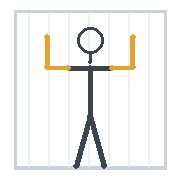
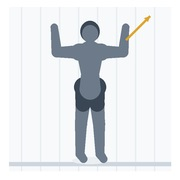
c003-c005: çizgi adam yerine dolgu silüet figür
Çizgi + daire kafa kaba duruyordu. Çizim yöntemi değişti:

- Uzuvlar uçtan uca incelen yuvarlak kapsüllerle doldurulmuş silüet
- 4x süper-örnekleme, sonra LANCZOS ile küçültme — kenarlar pürüzsüz
  (PIL'in kendi çizimi anti-aliasing yapmıyor, önceki hâlin tırtıklı
  görünmesinin sebebi buydu)
- Saç, şort ve yer gölgesi: figür insan gibi okunuyor
- Oranlar yaklaşık 7 baş boyu; duvar kaydırmada figür önce bodurdu,
  kafa küçültülüp bacaklar uzatıldı
- Hareketin yönü artık gövdeyi boyamak yerine ayrı bir pirinç okla
  gösteriliyor

Boyutlar 61-101 KB, dataset ortalaması olan 95 KB'nin altında.

sw: MEDYA sürümü v3. Medya "önce cache" okunduğu için, var olan bir
görseli değiştirince bu sürüm artmazsa kullanıcıda eski görsel kalıyor.
Kuralı dosyaya not olarak yazdım.

Changed region(s): [[0.0278, 0.0556, 0.9722, 0.9444]]

diff --git a/sw.js b/sw.js
@@ -9,7 +9,10 @@
    kapaliyken (ya da internet yokken) onceAg cache'e duser ve kullanici
    eski surumu gorur — guncelleme yapilmamis gibi. */
 const CORE  = 'salon-defteri-v5';   // v5: eliptik isinma, c003-c005 cizimleri
-const MEDYA = 'salon-defteri-medya-v2';   // c001/c002 gorselleri degisti
+/* Medya "once cache" okunuyor: bir kez indirilen gorsel bir daha aga
+   sorulmaz. Var olan bir gorseli DEGISTIRDIGINDE bu surumu artir, yoksa
+   kullanicida eski gorsel kalir. (Yeni id eklemek icin gerekmez.) */
+const MEDYA = 'salon-defteri-medya-v3';   // v3: c003-c005 figur cizimine gecti
 const MEDYA_TAVAN = 600;   // bu sayiyi asinca en eski kayitlar atilir
 
 const ASSETS = [

diff --git a/tools/cop-adam-uret.py b/tools/cop-adam-uret.py
@@ -1,153 +1,222 @@
 # -*- coding: utf-8 -*-
-"""Dataset'te HIC karsiligi olmayan uc durus hareketi icin cizim uretir.
+"""Dataset'te HIC karsiligi olmayan uc durus hareketi icin figur cizer.
 
 tools/ozel-gif-uret.py kare cikariyor: c001/c002'nin pozlari dataset'teki
-baska hareketlerin GIF'lerinin ICINDE vardi, oradan alindi. Bu ucunde ise
-oyle bir kaynak yok - dataset 1324 hareket tarandi (isim + Turkce adim
-metni): kedi-deve, duvarda kol kaydirma ve cene iceri cekme gecmiyor,
-boyun bolgesinde yalnizca iki yana esnetme var.
+baska hareketlerin GIF'lerinin ICINDE vardi. Bu ucunde oyle bir kaynak yok
+- dataset 1324 hareket hem isim hem Turkce adim metniyle tarandi: kedi-deve,
+duvarda kol kaydirma ve cene iceri cekme gecmiyor, boyun bolgesinde yalnizca
+iki yana esnetme var. Benzemeyen bir hareketin karesini koymak yaniltici
+olurdu, bu yuzden figurler burada sifirdan ciziliyor.
 
-Benzemeyen bir hareketin karesini koymak yaniltici olurdu. Bunun yerine
-hareketi dogru anlatan sade cop adam animasyonlari ciziliyor. Cizimler
-tamamen burada uretiliyor; dataset medyasindan turetilmemistir, bu yuzden
-Gym visual atifi bu uc dosya icin GECERLI DEGILDIR.
+DIKKAT: c003/c004/c005 dataset medyasindan turetilmemistir; Gym visual
+atifi bu uc dosya icin GECERLI DEGILDIR (bkz. NOTICE.md).
 
-  c003  kedi-deve          omurga yuvarlanma <-> cukurlasma
-  c004  duvarda kol kaydirma   kollar W -> Y
-  c005  cene iceri cekme   cene geri kayar, sonra bas 2 cm kalkar
-
-Cikti: videos/{id}-custom.gif ve images/{id}-custom.jpg (180x180, beyaz zemin)
+Cizim yontemi: dolgu silueti (uctan uca incelen kapsul uzuvlar), 4x
+super-ornekleme ile kenarlar yumusatilir, cikti dataset ile ayni
+180x180 beyaz zemin.
 """
 import os, math
 from PIL import Image, ImageDraw
 
 KOK = os.path.join(os.path.dirname(os.path.abspath(__file__)), '..')
-BOY = 180
+BOY, SS = 180, 4                      # cizim BOY*SS'te yapilir, sonra kuculur
+Z = BOY * SS
+
 ZEMIN = (255, 255, 255)
-GOVDE = (58, 69, 80)       # koyu arduvaz - govde
-VURGU = (224, 163, 46)     # pirinc - hareketin asil parcasi
-SILIK = (203, 211, 218)    # yer/duvar cizgisi
-KALIN, INCE = 5, 3
+TEN   = (108, 122, 138)               # govde
+KOYU  = (58,  70,  84)                # sac ve sort
+VURGU = (224, 163, 46)                # hareket yonu oku
+YER   = (206, 214, 222)
+GOLGE = (235, 239, 242)
 
 
 def yeni():
-    im = Image.new('RGB', (BOY, BOY), ZEMIN)
+    im = Image.new("RGB", (Z, Z), ZEMIN)
     return im, ImageDraw.Draw(im)
 
 
-def ç(d, p1, p2, renk=GOVDE, kalin=KALIN):
-    d.line([p1, p2], fill=renk, width=kalin)
-    for p in (p1, p2):                      # eklem yuvarlansin
-        r = kalin / 2
-        d.ellipse([p[0]-r, p[1]-r, p[0]+r, p[1]+r], fill=renk)
-
-
-def egri(d, p0, pc, p1, renk=GOVDE, kalin=KALIN, n=22):
-    """Kuadratik Bezier - omurga icin."""
-    pts = []
-    for i in range(n + 1):
-        t = i / n
-        x = (1-t)**2*p0[0] + 2*(1-t)*t*pc[0] + t**2*p1[0]
-        y = (1-t)**2*p0[1] + 2*(1-t)*t*pc[1] + t**2*p1[1]
-        pts.append((x, y))
-    d.line(pts, fill=renk, width=kalin, joint='curve')
-
-
-def bas(d, merkez, r=13, renk=GOVDE, yon=None):
-    x, y = merkez
-    d.ellipse([x-r, y-r, x+r, y+r], outline=renk, width=INCE)
-    if yon is not None:                     # yuz yonu (burun)
-        d.line([(x, y), (x + r*1.25*math.cos(yon), y + r*1.25*math.sin(yon))],
-               fill=renk, width=INCE)
+def s(v):
+    """180'lik koordinati cizim olcegine tasir."""
+    return v * SS
 
 
 def ara(a, b, t):
-    return (a[0] + (b[0]-a[0])*t, a[1] + (b[1]-a[1])*t)
+    return (a[0] + (b[0] - a[0]) * t, a[1] + (b[1] - a[1]) * t)
+
+
+def uzuv(d, p1, p2, r1, r2, renk=TEN):
+    """Uctan uca incelen yuvarlak uzuv: ust kol, uyluk, govde dilimi..."""
+    dx, dy = p2[0] - p1[0], p2[1] - p1[1]
+    uzunluk = math.hypot(dx, dy) or 1e-6
+    nx, ny = -dy / uzunluk, dx / uzunluk
+    d.polygon([(p1[0] + nx * r1, p1[1] + ny * r1),
+               (p2[0] + nx * r2, p2[1] + ny * r2),
+               (p2[0] - nx * r2, p2[1] - ny * r2),
+               (p1[0] - nx * r1, p1[1] - ny * r1)], fill=renk)
+    for p, r in ((p1, r1), (p2, r2)):
+        d.ellipse([p[0] - r, p[1] - r, p[0] + r, p[1] + r], fill=renk)
+
+
+def zincir(d, noktalar, yaricaplar, renk=TEN):
+    for i in range(len(noktalar) - 1):
+        uzuv(d, noktalar[i], noktalar[i + 1], yaricaplar[i], yaricaplar[i + 1], renk)
+
+
+def bezier(p0, pc, p1, n=16):
+    return [((1 - t) ** 2 * p0[0] + 2 * (1 - t) * t * pc[0] + t * t * p1[0],
+             (1 - t) ** 2 * p0[1] + 2 * (1 - t) * t * pc[1] + t * t * p1[1])
+            for t in (i / n for i in range(n + 1))]
+
+
+def profil_bas(d, m, r, aci):
+    """Yandan bas: kafatasi + burun + cene + sac. aci = yuzun baktigi yon."""
+    cx, cy = m
+    ix, iy = math.cos(aci), math.sin(aci)          # ileri (yuz yonu)
+    ax, ay = -iy, ix                               # cene yonu (ileriden 90 saga)
+    d.ellipse([cx - r, cy - r * 1.03, cx + r, cy + r * 1.03], fill=TEN)
+    cene = (cx + ix * r * 0.50 + ax * r * 0.74, cy + iy * r * 0.50 + ay * r * 0.74)
+    uzuv(d, (cx + ax * r * 0.28, cy + ay * r * 0.28), cene, r * 0.76, r * 0.34)
+    burun = (cx + ix * r * 1.02 + ax * r * 0.12, cy + iy * r * 1.02 + ay * r * 0.12)
+    uzuv(d, (cx + ix * r * 0.60, cy + iy * r * 0.60), burun, r * 0.44, r * 0.17)
+    # sac: kafanin arka yarisini ortuyor
+    geri = (cx - ix * r * 0.26, cy - iy * r * 0.26)
+    d.ellipse([geri[0] - r * 0.98, geri[1] - r * 0.98,
+               geri[0] + r * 0.98, geri[1] + r * 0.98], fill=KOYU)
+    yuz = (cx + ix * r * 0.16 + ax * r * 0.20, cy + iy * r * 0.16 + ay * r * 0.20)
+    d.ellipse([yuz[0] - r * 0.82, yuz[1] - r * 0.82,
+               yuz[0] + r * 0.82, yuz[1] + r * 0.82], fill=TEN)
+
+
+def on_bas(d, m, r):
+    """Onden bas: yuz ovali + sac."""
+    cx, cy = m
+    d.ellipse([cx - r * 0.96, cy - r * 1.12, cx + r * 0.96, cy + r * 1.02], fill=KOYU)
+    d.ellipse([cx - r * 0.80, cy - r * 0.70, cx + r * 0.80, cy + r * 1.04], fill=TEN)
+
+
+def ok_yayi(d, merkez, yaricap, bas_aci, son_aci, kalin, renk=VURGU):
+    """Hareketin yonunu gosteren ince yay, ucunda ok."""
+    n = 26
+    pts = [(merkez[0] + yaricap * math.cos(bas_aci + (son_aci - bas_aci) * i / n),
+            merkez[1] + yaricap * math.sin(bas_aci + (son_aci - bas_aci) * i / n))
+           for i in range(n + 1)]
+    d.line(pts, fill=renk, width=int(kalin), joint="curve")
+    uc, onceki = pts[-1], pts[-3]
+    a = math.atan2(uc[1] - onceki[1], uc[0] - onceki[0])
+    b = kalin * 2.4
+    d.polygon([uc,
+               (uc[0] - b * math.cos(a - 0.45), uc[1] - b * math.sin(a - 0.45)),
+               (uc[0] - b * math.cos(a + 0.45), uc[1] - b * math.sin(a + 0.45))], fill=renk)
+
+
+def ok_duz(d, p1, p2, kalin, renk=VURGU):
+    """Duz hareket oku: elin/basin gittigi yon."""
+    d.line([p1, p2], fill=renk, width=int(kalin))
+    a = math.atan2(p2[1] - p1[1], p2[0] - p1[0])
+    b = kalin * 2.6
+    d.polygon([p2,
+               (p2[0] - b * math.cos(a - 0.44), p2[1] - b * math.sin(a - 0.44)),
+               (p2[0] - b * math.cos(a + 0.44), p2[1] - b * math.sin(a + 0.44))], fill=renk)
+
+
+def bitir(im):
+    return im.resize((BOY, BOY), Image.LANCZOS)
 
 
 # ---------------------------------------------------------------- c003
 def kedi_deve(t):
     """t=+1 kedi (sirt yukari, cene gogse), t=-1 deve (sirt cukur, bas yukari)."""
     im, d = yeni()
-    d.line([(18, 158), (162, 158)], fill=SILIK, width=INCE)      # yer
+    d.ellipse([s(50), s(148), s(146), s(159)], fill=GOLGE)           # yer golgesi
+    d.rectangle([s(12), s(155), s(168), s(158)], fill=YER)           # yer
 
-    el, diz = (62, 158), (126, 158)
-    omuz, kalca = (62, 100), (126, 100)
-    ç(d, el, omuz)                                                # kol
-    ç(d, diz, kalca)                                              # uyluk
-    ç(d, diz, (154, 158))                                         # baldir
+    omuz, kalca = (s(68), s(92)), (s(124), s(96))
+    uzuv(d, (s(124), s(152)), (s(152), s(152)), s(7), s(5.5))        # ayak/baldir
+    uzuv(d, kalca, (s(124), s(150)), s(13), s(7.5))                  # uyluk
+    govde = bezier(omuz, (s(96), s(94) - s(31) * t), kalca)
+    zincir(d, govde, [s(16), s(16.5), s(16.5), s(16), s(15.5), s(15), s(14.5),
+                      s(14), s(13.5), s(13.5), s(14), s(14.5), s(15), s(15.5),
+                      s(16), s(16.5), s(17)], TEN)
+    uzuv(d, kalca, (s(128), s(104)), s(14), s(12), KOYU)             # sort
+    uzuv(d, (s(128), s(104)), (s(126), s(122)), s(12), s(9.5), KOYU)
+    uzuv(d, omuz, (s(66), s(150)), s(12), s(6.5))                    # kol
 
-    egri(d, omuz, (94, 100 - 30*t), kalca, VURGU, KALIN)          # omurga
+    u = (1 - t) / 2                                                  # t=+1 -> 0 (bas asagi)
+    bm = ara((s(48), s(116)), (s(42), s(80)), u)
+    uzuv(d, omuz, bm, s(11.5), s(9))                                 # boyun
+    profil_bas(d, bm, s(15.5), math.radians(120 - 96 * u))
 
-    u = (1 - t) / 2                        # t=+1 -> 0 (bas asagi), t=-1 -> 1 (bas yukari)
-    bm = ara((36, 122), (32, 84), u)
-    ç(d, omuz, bm, GOVDE, INCE)                                   # boyun
-    bas(d, bm, 13, GOVDE, math.radians(100 + 95*u))               # cene gogse -> ileri bak
-    return im
+    ok_yayi(d, (s(96), s(98)), s(44), math.radians(-120), math.radians(-60), s(2.4))
+    return bitir(im)
 
 
 # ---------------------------------------------------------------- c004
 def duvar_kaydirma(t):
-    """t=0 'W' kol, t=1 'Y' kol. Onden gorunus, arkada duvar."""
+    """t=0 'W' kol, t=1 'Y' kol. Onden gorunus, sirt duvarda."""
     im, d = yeni()
-    d.rectangle([14, 10, 166, 168], outline=SILIK, width=INCE)     # duvar duzlemi
-    for x in range(28, 166, 20):
-        d.line([(x, 14), (x, 166)], fill=(236, 240, 243), width=2)
-    d.line([(14, 168), (166, 168)], fill=SILIK, width=INCE)        # yer
+    d.rectangle([s(9), s(7), s(171), s(171)], fill=(247, 249, 251))  # duvar
+    for x in range(21, 172, 19):                                     # duvar derzleri
+        d.rectangle([s(x), s(7), s(x) + SS, s(171)], fill=(232, 237, 241))
+    d.rectangle([s(9), s(162), s(171), s(166)], fill=YER)            # sup
 
-    bas(d, (90, 40), 13)
-    ç(d, (90, 53), (90, 62), GOVDE, INCE)                          # boyun
-    so, sa = (68, 68), (112, 68)
-    ç(d, so, sa)                                                   # omuz hatti
-    ç(d, (90, 68), (90, 116))                                      # govde
-    ç(d, (90, 116), (76, 166)); ç(d, (90, 116), (104, 166))        # bacaklar
+    # Oranlar yaklasik 7 bas boyu: bas 20 px, toplam boy 140 px (y=22..162).
+    d.ellipse([s(72), s(157), s(108), s(164)], fill=GOLGE)
+    so, sa = (s(79), s(52)), (s(101), s(52))
+    for hx, dx_, ax in ((s(84), s(81), s(80)), (s(96), s(99), s(100))):
+        uzuv(d, (hx, s(92)), (dx_, s(124)), s(8), s(6))              # uyluk
+        uzuv(d, (dx_, s(124)), (ax, s(154)), s(6), s(4.5))           # baldir
+        uzuv(d, (ax, s(154)), (ax + s(3.5), s(159)), s(4.5), s(3.8))  # ayak
+    uzuv(d, (s(84), s(88)), (s(83), s(104)), s(9), s(7.5), KOYU)     # sort - sol paca
+    uzuv(d, (s(96), s(88)), (s(97), s(104)), s(9), s(7.5), KOYU)     # sort - sag paca
+    uzuv(d, (s(84), s(87)), (s(96), s(87)), s(10), s(10), KOYU)      # sort - bel
+    uzuv(d, (s(90), s(54)), (s(90), s(74)), s(13), s(9))             # gogus -> bel
+    uzuv(d, (s(90), s(74)), (s(90), s(89)), s(9), s(10.5))           # bel -> kalca
+    uzuv(d, so, sa, s(8.5), s(8.5))                                  # omuz hatti
+    uzuv(d, (s(90), s(43)), (s(90), s(51)), s(4.5), s(6))            # boyun
+    on_bas(d, (s(90), s(32)), s(10))
 
-    dW, dY = (50, 78), (44, 54)                                    # dirsek W->Y
-    eW, eY = (58, 50), (34, 20)                                    # el   W->Y
-    dl, el_ = ara(dW, dY, t), ara(eW, eY, t)
-    dr = (BOY - dl[0], dl[1]); er = (BOY - el_[0], el_[1])
-    for o, dd, ee in ((so, dl, el_), (sa, dr, er)):
-        ç(d, o, dd, VURGU); ç(d, dd, ee, VURGU)
-    return im
+    dl = ara((s(59), s(62)), (s(54), s(40)), t)                      # dirsek W -> Y
+    el = ara((s(65), s(38)), (s(41), s(14)), t)                      # el    W -> Y
+    for o, ayna in ((so, False), (sa, True)):
+        dd = (s(180) - dl[0], dl[1]) if ayna else dl
+        ee = (s(180) - el[0], el[1]) if ayna else el
+        uzuv(d, o, dd, s(7), s(5.2))                                 # ust kol
+        uzuv(d, dd, ee, s(5.2), s(3.6))                              # on kol
+    # Sag elin W'den Y'ye izledigi yol, koldan biraz disarida
+    ok_duz(d, (s(126), s(40)), (s(150), s(16)), s(2.4))
+    return bitir(im)
 
 
 # ---------------------------------------------------------------- c005
 def cene_cekme(t):
-    """Yandan, sirtustu, dizler bukulu. t: 0 notr -> 0.6 cene iceri -> 1 bas kalkik.
+    """Yandan, sirtustu, dizler bukulu.
+    t: 0 notr -> 0.6 cene iceri -> 1 bas yerden 2 cm kalkik.
     Kesikli dikey cizgi baslangictaki bas hizasi: cene ne kadar geri gitti gorunur."""
     im, d = yeni()
-    d.line([(8, 152), (172, 152)], fill=SILIK, width=INCE)         # yer
+    d.rectangle([s(8), s(144), s(172), s(147)], fill=YER)
+    d.ellipse([s(40), s(138), s(150), s(147)], fill=GOLGE)
 
-    omuz, kalca = (80, 130), (122, 136)
-    ç(d, omuz, kalca, GOVDE, KALIN + 3)                            # govde
-    ç(d, kalca, (144, 104)); ç(d, (144, 104), (158, 152))          # bukulu bacak
-    ç(d, omuz, (114, 146), GOVDE, INCE)                            # kol
+    omuz, kalca = (s(92), s(130)), (s(126), s(133))
+    uzuv(d, kalca, (s(146), s(102)), s(13), s(9.5))                  # uyluk
+    uzuv(d, (s(146), s(102)), (s(158), s(142)), s(9.5), s(6.5))      # baldir
+    uzuv(d, omuz, kalca, s(15.5), s(13))                             # govde
+    uzuv(d, kalca, (s(136), s(128)), s(13), s(10.5), KOYU)           # sort
+    uzuv(d, omuz, (s(116), s(140)), s(9), s(5.5))                    # kol
 
     cek = min(t / 0.6, 1.0)
     kalk = max((t - 0.6) / 0.4, 0.0)
-    r = 18
-    bm = (46 + 10*cek, 118 - 14*kalk)
+    # bas govde cizgisinden biraz yukarida: boyun ince kalinca ikisi ayrilir
+    bm = (s(54) + s(11) * cek, s(122) - s(14) * kalk)
 
-    bx0 = 46 - r                                                   # baslangic bas hizasi
-    for y in range(64, 148, 8):
-        d.line([(bx0, y), (bx0, y + 4)], fill=SILIK, width=2)
+    bx0 = s(54) - s(16)                                              # baslangic bas hizasi
+    for y in range(52, 140, 9):
+        d.rectangle([bx0, s(y), bx0 + s(1.6), s(y + 4.5)], fill=YER)
 
-    ç(d, omuz, (bm[0] + r*0.6, bm[1] + r*0.45), VURGU, KALIN)      # boyun
-    d.ellipse([bm[0]-r, bm[1]-r, bm[0]+r, bm[1]+r], outline=VURGU, width=KALIN-1)
-
-    burun = math.radians(-112 + 38*cek)      # geriye yatik -> cene iceri
-    bx = bm[0] + r*1.2*math.cos(burun); by = bm[1] + r*1.2*math.sin(burun)
-    d.line([(bm[0], bm[1]), (bx, by)], fill=VURGU, width=KALIN-1)  # burun
-    d.ellipse([bx-3, by-3, bx+3, by+3], fill=VURGU)
-
-    ca = burun + math.radians(58)                                  # cene: burnun altinda
-    d.line([(bm[0] + r*0.5*math.cos(ca), bm[1] + r*0.5*math.sin(ca)),
-            (bm[0] + r*1.05*math.cos(ca), bm[1] + r*1.05*math.sin(ca))],
-           fill=GOVDE, width=KALIN)
-
-    if kalk > 0.15:                                                # yerden kalkti
-        d.line([(bm[0], bm[1] + r + 2), (bm[0], 150)], fill=SILIK, width=2)
-    return im
+    uzuv(d, omuz, (bm[0] + s(10), bm[1] + s(4)), s(10), s(7.5))      # boyun (ince)
+    profil_bas(d, bm, s(15), math.radians(-104 + 36 * cek))
+    ok_yayi(d, (bm[0] - s(2), bm[1] - s(4)), s(30),
+            math.radians(-152), math.radians(-96), s(2.6))
+    return bitir(im)
 
 
 def gidip_gel(fn, degerler, bekleme_ms, uc_bekleme_ms):
@@ -159,23 +228,24 @@ def gidip_gel(fn, degerler, bekleme_ms, uc_bekleme_ms):
 
 
 URETIM = {
-    "c003": ("kedi-deve", lambda: gidip_gel(
-        kedi_deve, [1 - 2*i/9 for i in range(10)], 110, 520)),
-    "c004": ("duvarda kol kaydirma", lambda: gidip_gel(
-        duvar_kaydirma, [i/9 for i in range(10)], 110, 520)),
-    "c005": ("cene iceri cekme", lambda: gidip_gel(
-        cene_cekme, [i/9 for i in range(10)], 120, 620)),
+    "c003": ("kedi-deve",
+             lambda: gidip_gel(kedi_deve, [1 - 2 * i / 9 for i in range(10)], 110, 560)),
+    "c004": ("duvarda kol kaydirma",
+             lambda: gidip_gel(duvar_kaydirma, [i / 9 for i in range(10)], 110, 560)),
+    "c005": ("cene iceri cekme",
+             lambda: gidip_gel(cene_cekme, [i / 9 for i in range(10)], 120, 640)),
 }
 
-print("cop adam gorselleri uretiliyor:")
-for eid, (ad, uret) in URETIM.items():
-    kareler, sureler = uret()
-    pal = [k.convert('P', palette=Image.ADAPTIVE, colors=64) for k in kareler]
-    gif = os.path.join(KOK, 'videos', '%s-custom.gif' % eid)
-    pal[0].save(gif, save_all=True, append_images=pal[1:],
-                duration=sureler, loop=0, optimize=True, disposal=2)
-    jpg = os.path.join(KOK, 'images', '%s-custom.jpg' % eid)
-    kareler[len(kareler)//4].save(jpg, 'JPEG', quality=92)
-    print("  %-22s %2d kare  %s (%d B)  %s (%d B)"
-          % (ad, len(kareler), os.path.basename(gif), os.path.getsize(gif),
-             os.path.basename(jpg), os.path.getsize(jpg)))
+if __name__ == "__main__":
+    print("figur gorselleri uretiliyor:")
+    for eid, (ad, uret) in URETIM.items():
+        kareler, sureler = uret()
+        pal = [k.convert("P", palette=Image.ADAPTIVE, colors=96) for k in kareler]
+        gif = os.path.join(KOK, "videos", "%s-custom.gif" % eid)
+        pal[0].save(gif, save_all=True, append_images=pal[1:],
+                    duration=sureler, loop=0, optimize=True, disposal=2)
+        jpg = os.path.join(KOK, "images", "%s-custom.jpg" % eid)
+        kareler[len(kareler) // 4].save(jpg, "JPEG", quality=93)
+        print("  %-22s %2d kare  %s (%.1f KB)  %s (%.1f KB)"
+              % (ad, len(kareler), os.path.basename(gif), os.path.getsize(gif) / 1024,
+                 os.path.basename(jpg), os.path.getsize(jpg) / 1024))
